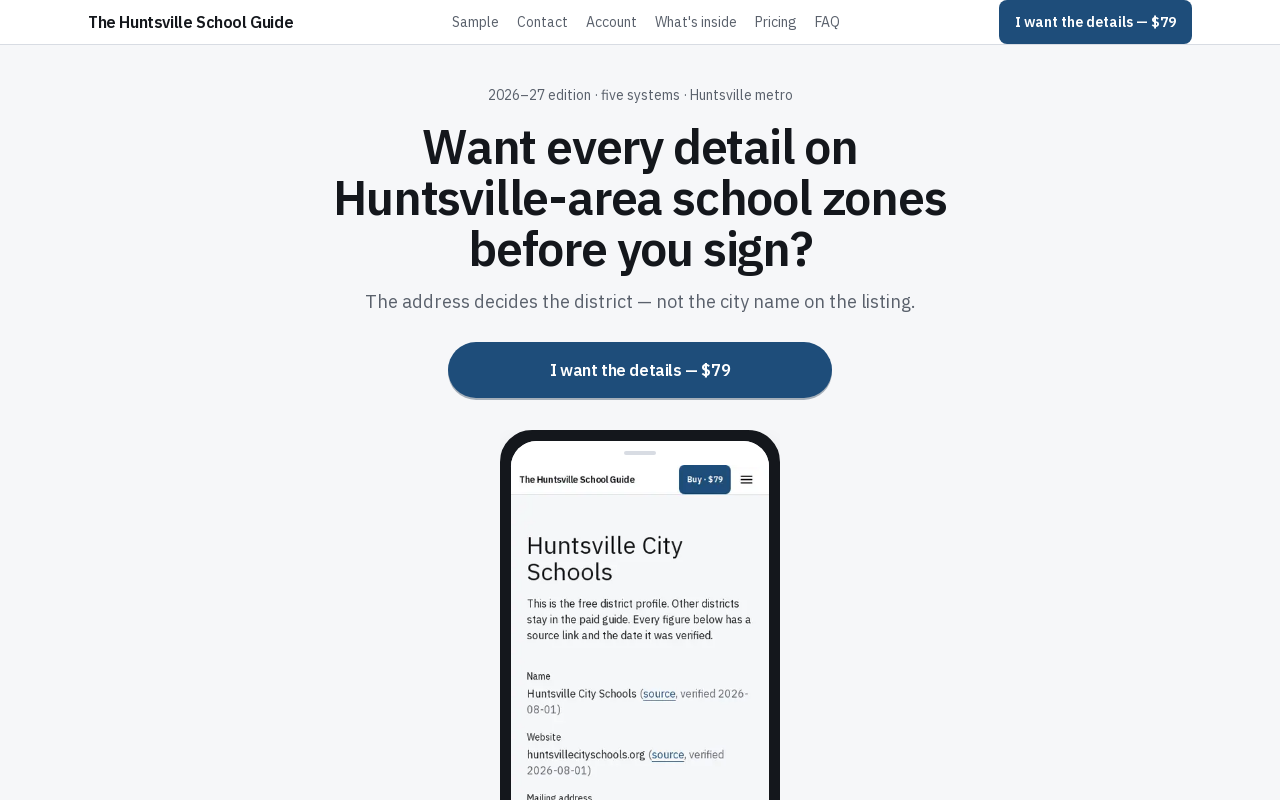
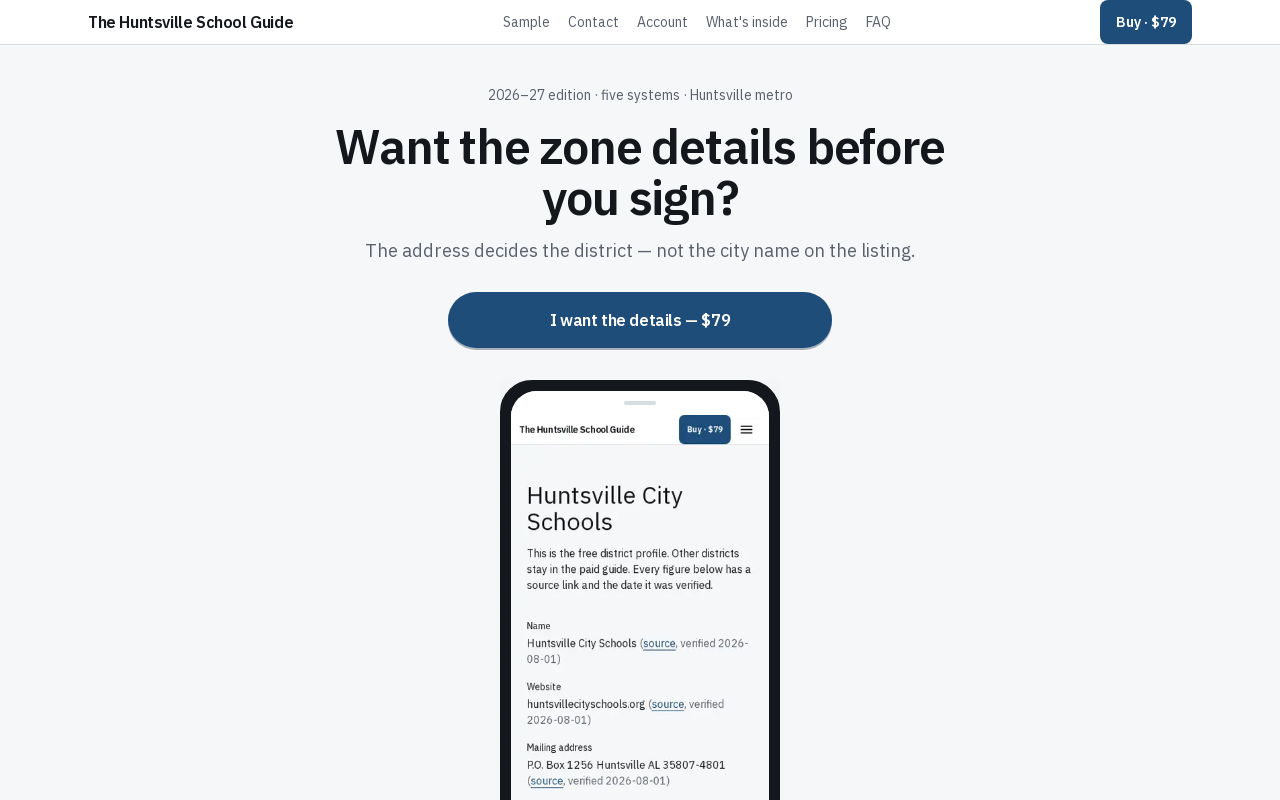
feat(homepage): rev 6.2 shorter H1 + header Buy · $79 only (#39)
- H1: Want the zone details before you sign?
- Header buy uses Buy · $79 at all breakpoints (no sm+ commitment CTA)
- Hero CTA, proof line, and rev 6.1 fold behavior unchanged
- Refresh proof PNGs; honesty tests for headline and header label

Changed region(s): [[0.25, 0.1562, 0.75, 1.0], [0.3438, 0.0, 0.6562, 0.0312], [0.7812, 0.0, 0.9062, 0.0625]]

diff --git a/lib/sales-honesty.test.ts b/lib/sales-honesty.test.ts
@@ -21,6 +21,10 @@ const headerSource = readFileSync(
   new URL("../components/site-header.tsx", import.meta.url),
   "utf8",
 );
+const headerBuyButtonSource = readFileSync(
+  new URL("../components/header-buy-button.tsx", import.meta.url),
+  "utf8",
+);
 const guideIndexSource = readFileSync(
   new URL("../app/guide/page.tsx", import.meta.url),
   "utf8",
@@ -182,7 +186,10 @@ describe("first-screen buy", () => {
     assert.equal(heroSource.toLowerCase().includes("refund"), false);
     assert.match(salesCopy.heroRiskReversal, /30-day refund/);
     assert.match(salesCopy.heroRiskReversal, /Zone Promise/);
-    assert.match(hero.headline, /before you sign/i);
+    assert.equal(
+      hero.headline,
+      "Want the zone details before you sign?",
+    );
     assert.equal(
       hero.proofLineAboveFold,
       "The address decides the district — not the city name on the listing.",
@@ -225,6 +232,17 @@ describe("first-screen buy", () => {
 });
 
 describe("mobile header tap targets", () => {
+  it("keeps header buy short at every breakpoint (never hero commitment CTA)", () => {
+    assert.equal(headerBuyButtonSource.includes("I want the details"), false);
+    assert.equal(headerBuyButtonSource.includes("hero.cta"), false);
+    assert.match(headerBuyButtonSource, /label="Buy · \$79"/);
+    assert.equal(
+      headerBuyButtonSource.includes("compactLabel"),
+      false,
+      "header must not use compactLabel swap that shows long CTA on sm+",
+    );
+  });
+
   it("keeps one combined sticky bar with buy CTA", () => {
     assert.match(headerSource, /sticky top-0/);
     assert.equal(headerSource.includes("flex-col"), false);

diff --git a/components/header-buy-button.tsx b/components/header-buy-button.tsx
@@ -1,16 +1,14 @@
 "use client";
 
 import { CheckoutForm } from "@/components/checkout-form";
-import { hero } from "@/lib/site";
 
 export function HeaderBuyButton() {
   return (
     <CheckoutForm
       tierId="79"
-      label={hero.cta}
+      label="Buy · $79"
       variant="brick"
       className="w-auto shrink-0 [&_button]:w-auto [&_button]:min-h-11 [&_button]:whitespace-nowrap [&_button]:px-3 [&_button]:text-xs [&_button]:sm:px-4 [&_button]:sm:text-sm"
-      compactLabel="Buy · $79"
     />
   );
 }

diff --git a/lib/site.ts b/lib/site.ts
@@ -38,8 +38,7 @@ export const namedSources = {
 } as const;
 
 export const hero = {
-  headline:
-    "Want every detail on Huntsville-area school zones before you sign?",
+  headline: "Want the zone details before you sign?",
   proofLineAboveFold:
     "The address decides the district — not the city name on the listing.",
   proofBeatsBelowFold: [
